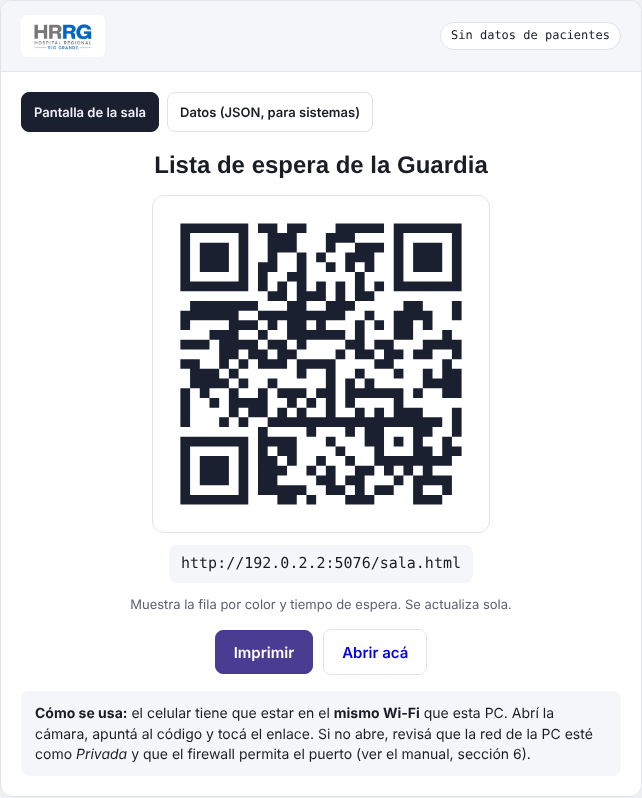
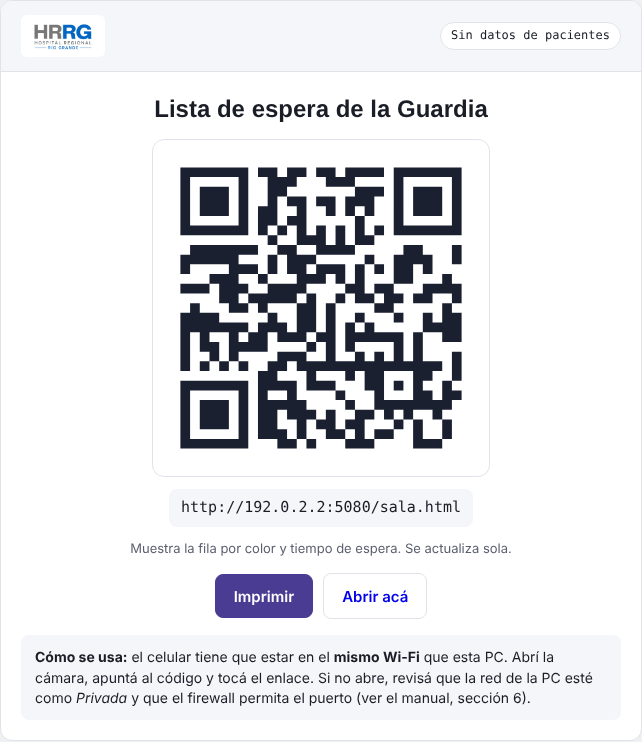
QR de la sala: se saca la opción de datos JSON

Changed region(s): [[0.0312, 0.031, 0.9346, 0.9609], [0.6854, 0.031, 0.9657, 0.062]]

diff --git a/frontend/qr_sala.html b/frontend/qr_sala.html
@@ -12,8 +12,6 @@
 <link rel="stylesheet" href="estilos.css">
 <style>
   .qr-app{max-width:640px;margin:24px auto}
-  .qr-tabs{display:flex;gap:8px;flex-wrap:wrap}
-  .qr-tabs .btn[aria-pressed="true"]{background:var(--tab);color:var(--bg);border-color:var(--tab)}
   .qr-caja{display:flex;flex-direction:column;align-items:center;gap:12px;text-align:center}
   .qr-caja img{width:min(320px,80vw);height:auto;background:#fff;border-radius:12px;padding:8px;border:1px solid var(--line)}
   .qr-url{font-family:var(--f-mono);font-size:15px;word-break:break-all;background:var(--panel-2);border-radius:8px;padding:8px 12px}
@@ -29,10 +27,7 @@
       <div class="chips no-print"><span class="chip">Sin datos de pacientes</span></div>
     </div>
     <div class="body">
-      <div class="qr-tabs no-print" role="group" aria-label="Qué abre el QR">
-        <button type="button" class="btn sm" data-destino="sala" aria-pressed="true">Pantalla de la sala</button>
-        <button type="button" class="btn sm" data-destino="datos" aria-pressed="false">Datos (JSON, para sistemas)</button>
-      </div>
+      <!-- [Barby 31/10] Se sacó la opción «Datos (JSON, para sistemas)»: el QR abre solo la pantalla de la sala. -->
       <div class="banner" id="qrAviso" hidden role="alert"><b></b></div>
       <div class="qr-caja">
         <p class="qr-titulo" id="qrTitulo">Lista de espera de la Guardia</p>
@@ -55,22 +50,12 @@
 (function () {
   'use strict';
   const $ = (id) => document.getElementById(id);
-  const TEXTOS = {
-    sala: ['Lista de espera de la Guardia', 'Muestra la fila por color y tiempo de espera. Se actualiza sola.'],
-    datos: ['Lista de espera en JSON', 'Para pantallas o sistemas que dibujan la fila por su cuenta (GET /api/sala/espera).']
-  };
-  let direcciones = null, destino = 'sala';
+  let direcciones = null;
   function pintar() {
-    document.querySelectorAll('[data-destino]').forEach((b) => b.setAttribute('aria-pressed', String(b.dataset.destino === destino)));
-    $('qrTitulo').textContent = TEXTOS[destino][0];
-    $('qrAyuda').textContent = TEXTOS[destino][1];
-    $('qrImg').src = '/api/sala/qr.svg?destino=' + destino + '&t=' + Date.now();
-    if (direcciones) { $('qrUrl').textContent = direcciones[destino]; $('qrAbrir').href = direcciones[destino]; }
+    $('qrAyuda').textContent = 'Muestra la fila por color y tiempo de espera. Se actualiza sola.';
+    $('qrImg').src = '/api/sala/qr.svg?destino=sala&t=' + Date.now();
+    if (direcciones) { $('qrUrl').textContent = direcciones.sala; $('qrAbrir').href = direcciones.sala; }
   }
-  document.querySelector('.qr-tabs').addEventListener('click', (e) => {
-    const b = e.target.closest('[data-destino]'); if (!b) return;
-    destino = b.dataset.destino; pintar();
-  });
   if (location.protocol === 'file:') {
     $('qrUrl').textContent = 'Esta pantalla necesita el servidor: abrila desde http://127.0.0.1:5000/qr_sala.html';
     return;

diff --git a/backend/src/sala_espera.py b/backend/src/sala_espera.py
@@ -81,7 +81,7 @@ def sala_espera():
 # [Propuesta Barby 30/10] Código QR para abrir la lista de espera desde un celular.
 #   GET /api/sala/qr                    → las direcciones (JSON)
 #   GET /api/sala/qr.svg?destino=sala   → QR de la pantalla de sala (sala.html)
-#   GET /api/sala/qr.svg?destino=datos  → QR del endpoint en JSON (/api/sala/espera)
+#   [31/10] Se sacó el QR al JSON (destino=datos): el equipo acordó que no hacía falta.
 # Es público como la lista (no tiene datos personales). Si la PC se abrió como 127.0.0.1
 # (localhost), el celular no podría entrar: se usa la IP de la PC en la red local.
 # ------------------------------------------------
@@ -90,7 +90,7 @@ import socket
 
 from flask import request
 
-DESTINOS_QR = {"sala": "/sala.html", "datos": "/api/sala/espera"}
+DESTINOS_QR = {"sala": "/sala.html"}
 
 
 def _ip_local():
@@ -140,7 +140,7 @@ def sala_qr_svg():
         return jsonify({"ok": False, "mensaje": "La lista pública está deshabilitada."}), 404
     destino = request.args.get("destino", "sala")
     if destino not in DESTINOS_QR or set(request.args) - {"destino", "t"}:   # t = evita caché del navegador
-        return jsonify({"ok": False, "mensaje": "Usá ?destino=sala o ?destino=datos."}), 400
+        return jsonify({"ok": False, "mensaje": "Usá ?destino=sala."}), 400
     try:
         import segno
     except ImportError:

diff --git a/backend/tests/test_sala_espera.py b/backend/tests/test_sala_espera.py
@@ -52,6 +52,6 @@ def test_qr_svg_y_direcciones(cliente):
     r = cliente.get("/api/sala/qr.svg?destino=sala", base_url="http://192.168.1.35:5000")
     assert r.status_code == 200 and r.mimetype == "image/svg+xml" and b"<svg" in r.data
     d = cliente.get("/api/sala/qr", base_url="http://192.168.1.35:5000").get_json()
-    assert d["direcciones"] == {"sala": "http://192.168.1.35:5000/sala.html",
-                                "datos": "http://192.168.1.35:5000/api/sala/espera"}
+    assert d["direcciones"] == {"sala": "http://192.168.1.35:5000/sala.html"}
     assert cliente.get("/api/sala/qr.svg?destino=otro").status_code == 400
+    assert cliente.get("/api/sala/qr.svg?destino=datos").status_code == 400   # [31/10] se sacó el QR al JSON

diff --git a/docs/frontend_cambios.md b/docs/frontend_cambios.md
@@ -161,7 +161,7 @@ Se actualizó según `backend/docs/controles_validacion.md` (C04 de Darío). Aho
 | 39 | **Reglas del hospital** (pedido 28/10) ✅: perfil nuevo **Jefatura de Guardia** y pantalla `reglas.html` para crear, probar con un caso de ejemplo, activar, desactivar y editar reglas, con historial. Las reglas activas intervienen en la sugerencia desde el próximo paciente (`js/motor_reglas.js`), aparecen en el "Por qué" como **HRRG** y quedan en la decisión guardada. La Jefatura puede apagar las reglas de ejemplo del equipo. El auditor las ve en solo lectura. | Pedido de Barby | A09 |
 | 41 | **Dos endpoints para otros sistemas** (pedido 30/10) ✅: (1) `GET /api/sala/espera`, público y sin datos personales, para pantallas de la sala; se agregan `en_espera_desde` y `vencido`. (2) API de auditoría `/api/auditoria/...` con token propio (`HRRG_API_AUDITORIA_TOKEN`): lista y búsqueda de casos (DNI completo, el DNI va en el cuerpo), historial de cada episodio y exportación JSON, Excel o PDF (archivos protegidos con la clave que manda el sistema). Ver `docs/endpoints_externos.md`. | Pedido del HRRG | — |
 | 42 | **Se saca el AZUL de la pantalla** (30/10, recomendación de Navoni) ✅: en **Modificar** y en **Clasificar sin IA** quedan solo los 4 colores clínicos, y se sacó el motivo "Caso policial o judicial (categoría AZUL)". Los casos policiales, judiciales o con custodia se registran como **Condición especial** en el Ingreso (Darío, D4). Las decisiones viejas con AZUL se siguen mostrando en el historial. | Pedido de Barby | A09 |
-| 43 | **QR de la lista de espera** (pedido 30/10) ✅: botón **QR de la sala** en En espera → `qr_sala.html`, con un QR (armado por el servidor con la IP de la PC en la red) que abre `sala.html` o, con la otra opción, el endpoint `/api/sala/espera`. Se puede imprimir. Rutas `GET /api/sala/qr` y `/api/sala/qr.svg`; librería nueva `segno`. | Pedido de Barby | — |
+| 43 | **QR de la lista de espera** (pedido 30/10) ✅: botón **QR de la sala** en En espera → `qr_sala.html`, con un QR (armado por el servidor con la IP de la PC en la red) que abre `sala.html` (31/10: se sacó la opción del QR al JSON `/api/sala/espera`; el endpoint sigue). Se puede imprimir. Rutas `GET /api/sala/qr` y `/api/sala/qr.svg`; librería nueva `segno`. | Pedido de Barby | — |
 | 11 | Que un error de IA **no vuelva solo a la simulación** (revisar `frontend/js/medgemma.js` y `dictado.js` de Darío antes de activarlos: hoy no están cargados) | Acordar con Darío | A08 |
 
 **Reglas que se mantienen:** solo casos ficticios; nada se atribuye a MedGemma ni al HRRG mientras sea simulación; la decisión final es siempre del profesional.

diff --git a/docs/manual_usuario.md b/docs/manual_usuario.md
@@ -224,7 +224,6 @@ Es una pantalla **de consulta** para un televisor de la sala de espera, una tabl
 - En el navegador del celular hay que escribir `http://<IP de la PC>:5000/sala.html`, por ejemplo `http://192.168.100.71:5000/sala.html`.
 - La IP de la PC y la configuración de la red las resuelve el área de informática.
 - **Más fácil, con el código QR:** en **En espera** tocá **QR de la sala**. Se abre una página con un código QR que ya trae la dirección correcta (con la IP de la PC). Apuntá la cámara del celular al código y tocá el enlace. La página se puede **imprimir** para pegar en la sala.
-  - Con la opción **Datos (JSON, para sistemas)**, el QR lleva al endpoint `/api/sala/espera` en lugar de a la pantalla.
 
 ![Código QR de la lista de espera](img/manual/19_qr_sala.png)
 

diff --git a/docs/endpoints_externos.md b/docs/endpoints_externos.md
@@ -50,9 +50,8 @@ Invoke-RestMethod http://127.0.0.1:5000/api/sala/espera | ConvertTo-Json -Depth 
 
 | Ruta | Qué devuelve |
 |---|---|
-| `GET /api/sala/qr` | `{"direcciones": {"sala": "http://IP:5000/sala.html", "datos": "http://IP:5000/api/sala/espera"}}` |
+| `GET /api/sala/qr` | `{"direcciones": {"sala": "http://IP:5000/sala.html"}}` |
 | `GET /api/sala/qr.svg?destino=sala` | Imagen SVG del QR de la pantalla de sala |
-| `GET /api/sala/qr.svg?destino=datos` | Imagen SVG del QR del endpoint en JSON |
 
 Son públicas como la lista (sin datos de pacientes) y se apagan junto con ella (`HRRG_SALA_PUBLICA=0`). Necesitan la librería `segno` (está en `requirements.txt`).
 
